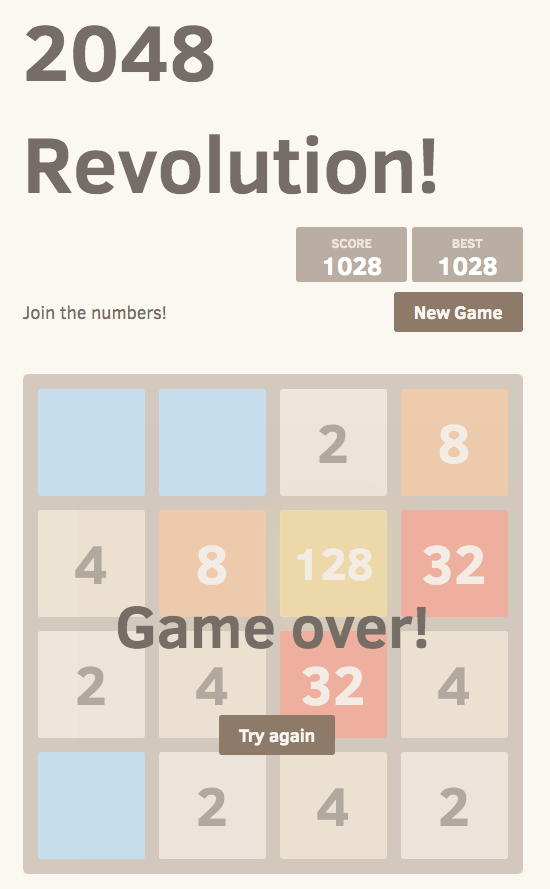
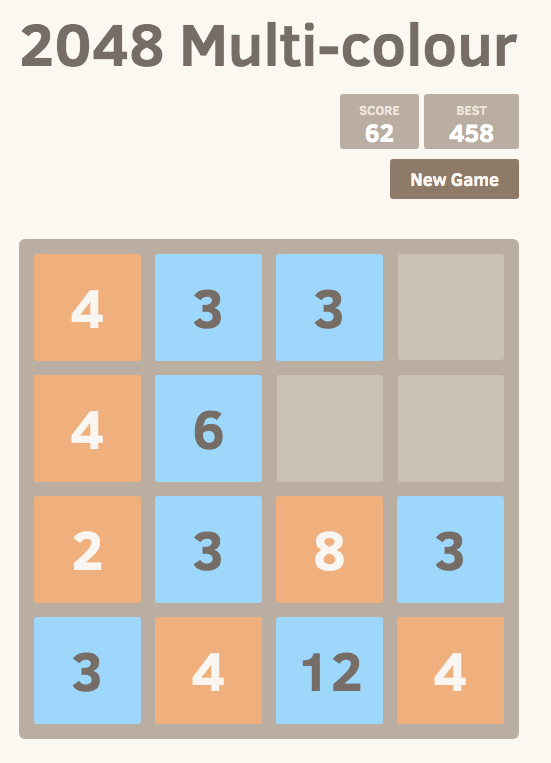
added changes for multi

diff --git a/index.html b/index.html
@@ -2,7 +2,7 @@
 <html>
 <head>
   <meta charset="utf-8">
-  <title>2048 Revolution!</title>
+  <title>2048 Multi-colour</title>
 
   <link href="style/main.css" rel="stylesheet" type="text/css">
   <link rel="shortcut icon" href="favicon.ico">
@@ -19,7 +19,7 @@
 <body>
   <div class="container">
     <div class="heading">
-      <h1 class="title">2048 Revolution!</h1>
+      <h1 class="title">2048 Multi-colour</h1>
       <div class="scores-container">
         <div class="score-container">0</div>
         <div class="best-container">0</div>
@@ -76,24 +76,24 @@
     <p class="game-explanation">
       <strong class="important">How to play:</strong> Use your <strong>arrow keys</strong> to move the tiles. When two tiles with the same number touch, they <strong>merge into one!</strong>
     </p>
-    <hr>
-    Choose the game difficulty: <br><br>
+    <!-- <hr> -->
+<!--     Choose the game difficulty: <br><br>
     <button type="button" onclick="changeDifficulty(1);">Easy</button>
     <button type="button" onclick="changeDifficulty(2);">Medium</button>
     <button type="button" onclick="changeDifficulty(3);">Hard</button>
     <button type="button" onclick="changeDifficulty(5);">Extreme!</button>
-    <hr>
-    World records:
+    <hr> -->
+<!--     World records:
     <ul>
       <li>Easy: 21104, Rowan Martin-Hughes on 13/05/2020</li>
       <li>Medium: 13616, Rowan Martin-Hughes on 13/05/2020</li>
       <li>Hard: 1204, Dmitry Kamenetsky on 24/06/2020</li>
       <li>Extreme: 1808, Rowan Martin-Hughes on 13/05/2020</li>
-    </ul>
+    </ul> -->
     <hr>
     <p>
-    Created by <a href="https://github.com/dimkadimon/2048Revolution">dimkadimon</a> based on <a href="http://gabrielecirulli.github.io/2048/">2048 by Gabriele Cirulli</a>.
-    This version of 2048 uses walls (blue cells) that cannot be moved. This adds a whole new dimension to the game and provides an endless variety of levels. Please enjoy and share with your friends!
+    Created by <a href="https://github.com/dimkadimon/2048Multi">dimkadimon</a> based on <a href="http://gabrielecirulli.github.io/2048/">2048 by Gabriele Cirulli</a>.
+    This version of 2048 uses blocks of two colours that need to merged separately. This adds a whole new dimension to the game. Please enjoy and share with your friends!
    </p>
   </div>
 

diff --git a/style/main.css b/style/main.css
@@ -341,6 +341,44 @@ hr {
     z-index: 10;
     font-size: 55px; }
   .tile.tile-2 .tile-inner {
+    color: #f9f6f2;
+    background: #f2b179; }    
+  .tile.tile-4 .tile-inner {
+    color: #f9f6f2;
+    background: #f2b179; }        
+  .tile.tile-8 .tile-inner {
+    color: #f9f6f2;
+    background: #f2b179; }
+  .tile.tile-16 .tile-inner {
+    color: #f9f6f2;
+    background: #f2b179; }        
+  .tile.tile-32 .tile-inner {
+    color: #f9f6f2;
+    background: #f2b179; }   
+  .tile.tile-64 .tile-inner {
+    color: #f9f6f2;
+    background: #f2b179; }   
+  .tile.tile-128 .tile-inner {
+    color: #f9f6f2;
+    background: #f2b179; }     
+  .tile.tile-256 .tile-inner {
+    color: #f9f6f2;
+    background: #f2b179; }    
+  .tile.tile-512 .tile-inner {
+    color: #f9f6f2;
+    background: #f2b179; }         
+  .tile.tile-1024 .tile-inner {
+    color: #f9f6f2;
+    background: #f2b179; }  
+  .tile.tile-2048 .tile-inner {
+    color: #f9f6f2;
+    background: #f2b179; }  
+  .tile.tile-super .tile-inner {
+    color: #f9f6f2;
+    background: #f2b179; }  
+                            
+
+/*  .tile.tile-2 .tile-inner {
     background: #eee4da;
     box-shadow: 0 0 30px 10px rgba(243, 215, 116, 0), inset 0 0 0 1px rgba(255, 255, 255, 0); }
   .tile.tile-4 .tile-inner {
@@ -404,7 +442,7 @@ hr {
     font-size: 30px; }
     @media screen and (max-width: 520px) {
       .tile.tile-super .tile-inner {
-        font-size: 10px; } }
+        font-size: 10px; } }*/
 
 @-webkit-keyframes appear {
   0% {

diff --git a/js/game_manager.js b/js/game_manager.js
@@ -59,31 +59,10 @@ GameManager.prototype.setup = function () {
 
 // Set up the initial tiles to start the game with
 GameManager.prototype.addStartTiles = function () {
-  var walls=this.difficulty+1;
 
-  // W=2, 16-20, ave=18
-  // W=3, 13-18, ave=15.5
-  // W=4, 10-17, ave=13.5   NOTE: I hacked max[4] to avoid that silly grid
-  // W=6, 4-13, ave=8.5
-  var min = [0, 0, 16, 13, 10, 0, 4];
-  var max = [0, 0, 20, 18, 15, 0, 13];
-
-  while(true)
-  {
-    //reset grid
-    this.grid        = new Grid(this.size);
-
-    //add walls
-    for (var i = 0; i < walls; i++)
-      this.addTile(""); 
-
-    var complexity = this.getComplexity();
-    if (complexity <= (min[walls]+max[walls])/2 - 1) break;
-  }
-
-  //add 2s
-  for (var i = 0; i < 2; i++)
-    this.addTile(2);  
+  //add tiles
+  this.addTile(2);  
+  this.addTile(3);  
 
   if (!this.movesAvailable())
     this.over = true; // Game over!
@@ -92,7 +71,7 @@ GameManager.prototype.addStartTiles = function () {
 // Adds a tile in a random position
 GameManager.prototype.addRandomTile = function () {
   if (this.grid.cellsAvailable()) {
-    var value = Math.random() < 0.9 ? 2 : 4;
+    var value = Math.random() < 0.5 ? 2 : 3;
     var tile = new Tile(this.grid.randomAvailableCell(), value);
 
     this.grid.insertTile(tile);

diff --git a/js/local_storage_manager.js b/js/local_storage_manager.js
@@ -64,6 +64,5 @@ LocalStorageManager.prototype.clearGameState = function (difficulty) {
 };
 
 LocalStorageManager.prototype.setDifficulty = function (difficulty) {
-  this.bestScoreKey     = "Besties_"+difficulty;
-  if (difficulty==3) this.bestScoreKey     = "Besties2_"+difficulty;
+  this.bestScoreKey     = "Multies_"+difficulty;
 };

diff --git a/README.md b/README.md
@@ -1,28 +1,22 @@
-# 2048 Revolution
+# 2048 Multi
 A small clone of [2048 by Gabriele Cirulli](http://gabrielecirulli.github.io/2048/).
 
-Made just for fun. [Play it here!](http://dimkadimon.github.io/2048Revolution/)
+Made just for fun. [Play it here!](http://dimkadimon.github.io/2048Multi/)
 
-This version of 2048 uses walls that cannot be moved. This adds a whole new dimension to the game and provides an endless variety of levels. Please enjoy and share with your friends!
-
-### Contributions
-
-Thank you to my wife for beta testing and coming up with a nice colour scheme.
-
-Thank you to Rowan Martin-Hughes for beta testing and coming up with a way to measure grid difficulty.
+This version of 2048 uses blocks of two colours that need to merged separately. This adds a whole new dimension to the game. Please enjoy and share with your friends!
 
 
 ### Screenshot
 
 <p align="center">
-  <img src="https://github.com/dimkadimon/2048Revolution/blob/master/screenshot.png" alt="Screenshot"/>
+  <img src="https://github.com/dimkadimon/2048Multi/blob/master/screenshot.png" alt="Screenshot"/>
 </p>
 
 
 ## Contributing
 Changes and improvements are more than welcome! Feel free to fork and open a pull request.
 
-You can find the same information in the [contributing guide.](https://github.com/dimkadimon/2048Revolution/blob/master/CONTRIBUTING.md)
+You can find the same information in the [contributing guide.](https://github.com/dimkadimon/2048Multi/blob/master/CONTRIBUTING.md)
 
 ## License
-2048 Revolution is licensed under the [MIT license.](https://github.com/dimkadimon/2048Revolution/blob/master/LICENSE.txt)
+2048 Multi is licensed under the [MIT license.](https://github.com/dimkadimon/2048Multi/blob/master/LICENSE.txt)
